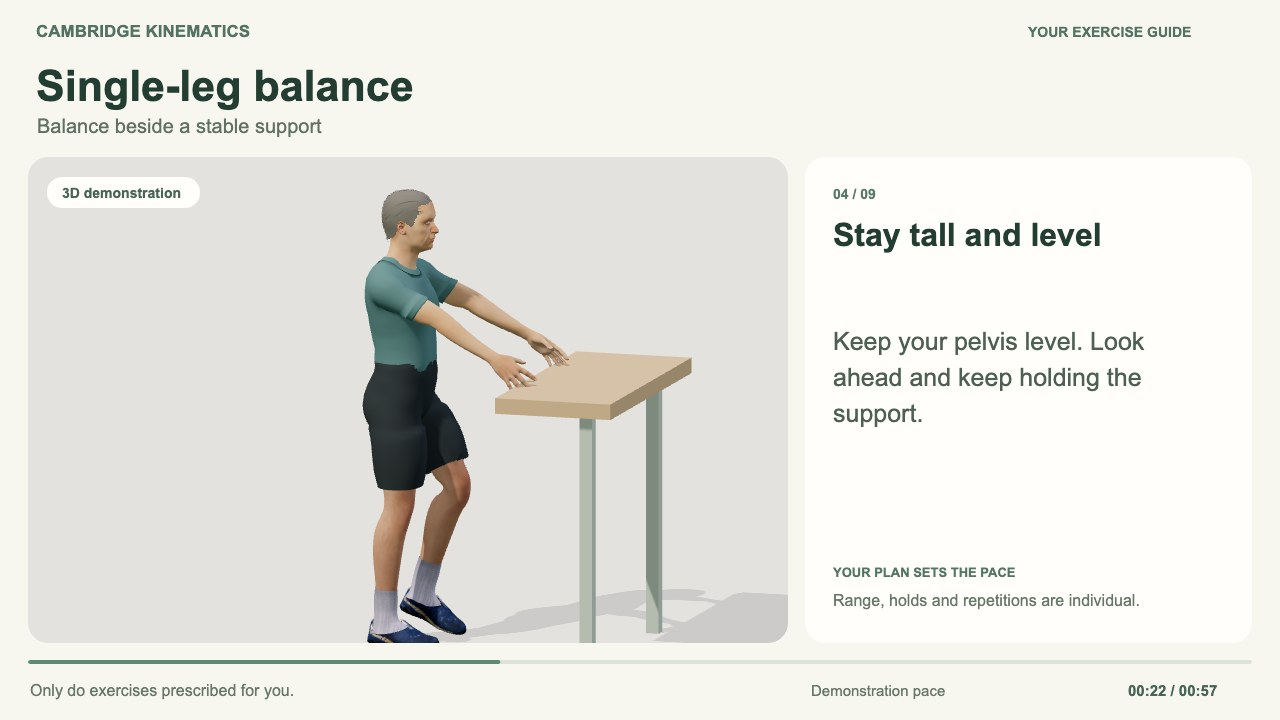
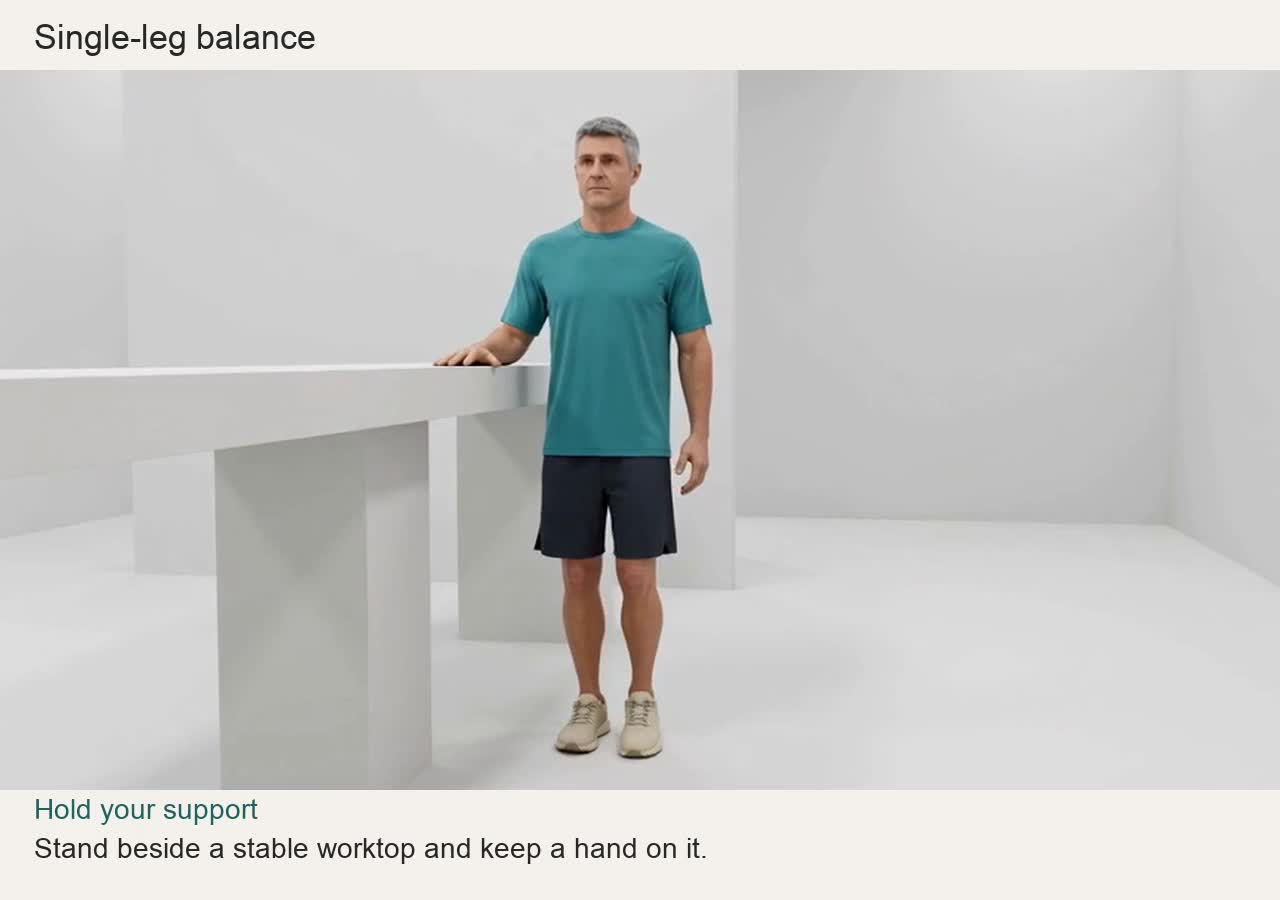
Replace old exercise videos and play demonstrations before exercises

diff --git a/exercise-guides/index.html b/exercise-guides/index.html
@@ -1,14 +1,14 @@
-<!doctype html><html lang="en"><head><meta charset="utf-8"><meta name="viewport" content="width=device-width,initial-scale=1"><meta name="description" content="Optional narrated animated exercise demonstrations for Knee Recovery."><title>Exercise guides | Cambridge Kinematics</title><link rel="stylesheet" href="library.css"></head><body>
+<!doctype html><html lang="en"><head><meta charset="utf-8"><meta name="viewport" content="width=device-width,initial-scale=1"><meta name="description" content="Narrated animated exercise demonstrations for Knee Recovery."><title>Exercise guides | Cambridge Kinematics</title><link rel="stylesheet" href="library.css"></head><body>
 <header><a href="../">Cambridge Kinematics</a><span>Knee Recovery</span></header><main>
-<div class="eyebrow">Exercise demonstrations · Review draft</div><h1>A clear view of<br>each movement.</h1><p class="intro">Nine short guides with a 3D character, generated narration and captions. Patients can watch a reminder or skip straight to their exercise.</p>
+<div class="eyebrow">Exercise demonstrations · Review draft</div><h1>A clear view of<br>each movement.</h1><p class="intro">Nine short guides with a 3D character, generated narration and captions. These demonstrations play before each exercise.</p>
 <div class="toolbar"><a class="button" href="magnific/">Magnific videos with Marin · Review drafts</a><a class="button primary" href="../">Open app preview</a><a class="button" href="README.md">Sources and review notes</a><a class="button" href="transcripts.md">Read all transcripts</a><a class="button" href="fitness-avatar/fitness-avatar-editable.blend" download>Editable Blender character</a></div>
-<div class="layout"><section class="player" aria-labelledby="currentTitle"><div class="player-head"><div><span id="currentStatus" class="eyebrow"></span><h2 id="currentTitle"></h2></div><span class="duration">57 seconds</span></div><video id="video" controls playsinline preload="metadata"><track kind="captions" srclang="en" label="English"></video><div class="player-actions"><button id="play" class="primary">Watch demonstration</button><button id="try">Try watch / skip</button><a id="download" class="button" download>Download MP4</a><a id="modelLink" class="button">Explore 3D model</a></div><p id="ready" role="status"></p><p class="note">The character demonstrates the movement. The patient’s prescribed plan determines range, hold time and repetitions. These drafts need clinical review before patient release.</p></section><nav id="exerciseList" aria-label="Choose an exercise"></nav></div>
+<div class="layout"><section class="player" aria-labelledby="currentTitle"><div class="player-head"><div><span id="currentStatus" class="eyebrow"></span><h2 id="currentTitle"></h2></div><span class="duration">57 seconds</span></div><video id="video" controls playsinline preload="metadata"><track kind="captions" srclang="en" label="English"></video><div class="player-actions"><button id="play" class="primary">Watch demonstration</button><button id="try">Preview exercise introduction</button><a id="download" class="button" download>Download MP4</a><a id="modelLink" class="button">Explore 3D model</a></div><p id="ready" role="status"></p><p class="note">The character demonstrates the movement. The patient’s prescribed plan determines range, hold time and repetitions. These drafts need clinical review before patient release.</p></section><nav id="exerciseList" aria-label="Choose an exercise"></nav></div>
 <section class="transcript" aria-labelledby="voicePreviewTitle"><h2 id="voicePreviewTitle">Selected narration: Marin</h2><p>All nine exercise videos now use Marin, with the selected soft, warm British delivery. The narration is AI-generated. The original voice audition is available below.</p><audio controls preload="metadata" aria-label="Approved Marin voice sample" src="source/openai-narration/approved-marin-preview.mp3"></audio></section>
 <section class="transcript"><h2>What the patient hears</h2><ol id="transcript"></ol></section>
-<footer>Adult character built and rigged in Blender. No patient recordings are included. <a href="README.md">Method and sources</a></footer></main><script type="module">
-import {showExerciseGuide} from './guide-player.js';
-const exs=await(await fetch('./exercises.json?v=marin-v2')).json(),$=id=>document.getElementById(id),v=$('video');let current;
-function choose(ex){v.pause();current=ex;document.querySelector('.duration').textContent=Math.round(ex.duration)+' seconds';v.src='videos/'+ex.id+'.mp4?v=marin-v2';v.poster='videos/'+ex.id+'.jpg';v.querySelector('track').src='videos/'+ex.id+'.vtt';v.load();$('currentTitle').textContent=ex.title;$('currentStatus').textContent=ex.active?'Current exercise':'Planned exercise';$('download').href=v.src;$('modelLink').href='model.html?exercise='+ex.id;$('ready').textContent='';$('play').textContent='Watch demonstration';$('transcript').replaceChildren(...ex.cues.map(c=>{const li=document.createElement('li'),time=document.createElement('span'),p=document.createElement('p');time.textContent=String(Math.floor(c.start/60)).padStart(2,'0')+':'+String(Math.floor(c.start%60)).padStart(2,'0');p.textContent=c.text;li.append(time,p);return li}));document.querySelectorAll('#exerciseList button').forEach(b=>{const active=b.dataset.id===ex.id;b.setAttribute('aria-pressed',String(active));});history.replaceState(null,'','#'+ex.id);}
+<footer>Magnific animated character with Marin narration. No patient recordings are included. <a href="README.md">Method and sources</a></footer></main><script type="module">
+import {showExerciseGuide} from './guide-player.js?v=magnific-1';
+const exs=await(await fetch('./exercises.json?v=magnific-1')).json(),$=id=>document.getElementById(id),v=$('video');let current;
+function choose(ex){v.pause();current=ex;document.querySelector('.duration').textContent=Math.round(ex.duration)+' seconds';v.src='magnific/'+ex.id+'.mp4?v=magnific-1';v.poster='videos/'+ex.id+'.jpg?v=magnific-1';v.querySelector('track').src='videos/'+ex.id+'.vtt';v.load();$('currentTitle').textContent=ex.title;$('currentStatus').textContent=ex.active?'Current exercise':'Planned exercise';$('download').href=v.src;$('modelLink').href='model.html?exercise='+ex.id;$('ready').textContent='';$('play').textContent='Watch demonstration';$('transcript').replaceChildren(...ex.cues.map(c=>{const li=document.createElement('li'),time=document.createElement('span'),p=document.createElement('p');time.textContent=String(Math.floor(c.start/60)).padStart(2,'0')+':'+String(Math.floor(c.start%60)).padStart(2,'0');p.textContent=c.text;li.append(time,p);return li}));document.querySelectorAll('#exerciseList button').forEach(b=>{const active=b.dataset.id===ex.id;b.setAttribute('aria-pressed',String(active));});history.replaceState(null,'','#'+ex.id);}
 $('exerciseList').replaceChildren(...exs.map((ex,i)=>{const b=document.createElement('button');b.dataset.id=ex.id;const num=document.createElement('span'),title=document.createElement('strong'),small=document.createElement('small');num.textContent=String(i+1).padStart(2,'0');title.textContent=ex.title;small.textContent=ex.active?'Current exercise':'Planned exercise';b.append(num,title,small);b.onclick=()=>choose(ex);return b}));
 $('play').onclick=()=>{v.play().catch(()=>{$('ready').textContent='Use the video play button to begin.'})};v.addEventListener('ended',()=>{$('play').textContent='Watch again'});$('try').onclick=async()=>{$('ready').textContent=await showExerciseGuide(current)?'The patient would now continue to camera setup and their exercise.':'Returned to the exercise list.';};
 choose(exs.find(e=>e.id===location.hash.slice(1))||exs.find(e=>e.id==='seated_extension'));

diff --git a/exercise-guides/guide-player.js b/exercise-guides/guide-player.js
@@ -9,13 +9,13 @@ function initialise(){
  .exercise-guide-dialog video{display:block;width:100%;aspect-ratio:16/9;object-fit:contain;background:#edf1eb;border-radius:12px}
  .exercise-guide-dialog .guide-actions{display:flex;gap:10px;margin-top:18px;flex-wrap:wrap}.exercise-guide-dialog button{font:inherit;cursor:pointer;min-height:48px;padding:12px 17px;border-radius:10px;border:1px solid #9cad9f;background:transparent;color:#294835;font-weight:600}.exercise-guide-dialog .guide-primary{background:#274d3b;color:white;border-color:#274d3b}.exercise-guide-dialog .guide-close{position:absolute;right:16px;top:12px;border:0;font-size:26px;min-height:44px;padding:6px 12px}.exercise-guide-dialog .guide-note{font-size:13px;margin:12px 0 0}.exercise-guide-dialog button:focus-visible,.exercise-guide-dialog video:focus-visible{outline:3px solid #b57231;outline-offset:3px}
  @media(max-width:480px){.exercise-guide-dialog{padding:19px 14px}.exercise-guide-dialog .guide-actions button{flex:1 1 100%}}`;
- document.head.append(style);dialog=document.createElement('dialog');dialog.className='exercise-guide-dialog';dialog.setAttribute('aria-labelledby','exerciseGuideTitle');dialog.setAttribute('aria-describedby','exerciseGuideDescription');dialog.innerHTML=`<button type="button" class="guide-close" aria-label="Back to exercises">×</button><div class="guide-kicker">Exercise guide · Optional</div><h2 id="exerciseGuideTitle"></h2><p id="exerciseGuideDescription">Watch a demonstration if you would like a reminder, or go straight to your exercise.</p><video controls playsinline preload="none" aria-label="Exercise demonstration"><track kind="captions" srclang="en" label="English"></video><p class="guide-error" hidden>The video could not load. You can still start the exercise and read the written instructions.</p><div class="guide-actions"><button type="button" class="guide-watch guide-primary">Watch how to do it</button><button type="button" class="guide-skip">Skip and start</button></div><p class="guide-note">Follow your own prescribed range, hold time and repetitions.</p>`;
+ document.head.append(style);dialog=document.createElement('dialog');dialog.className='exercise-guide-dialog';dialog.setAttribute('aria-labelledby','exerciseGuideTitle');dialog.setAttribute('aria-describedby','exerciseGuideDescription');dialog.innerHTML=`<button type="button" class="guide-close" aria-label="Back to exercises">×</button><div class="guide-kicker">Exercise demonstration</div><h2 id="exerciseGuideTitle"></h2><p id="exerciseGuideDescription">Watch the demonstration, then continue to your exercise.</p><video controls playsinline preload="none" aria-label="Exercise demonstration"><track kind="captions" srclang="en" label="English"></video><p class="guide-error" hidden>The video could not load. You can still start the exercise and read the written instructions.</p><div class="guide-actions"><button type="button" class="guide-watch guide-primary">Watch how to do it</button><button type="button" class="guide-skip">Start exercise</button></div><p class="guide-note">Follow your own prescribed range, hold time and repetitions.</p>`;
  document.body.append(dialog);
  const video=dialog.querySelector('video'),watch=dialog.querySelector('.guide-watch');
  watch.onclick=()=>{if(video.ended)video.currentTime=0;video.play().catch(()=>{dialog.querySelector('.guide-error').hidden=false});};
  video.addEventListener('play',()=>{watch.textContent='Restart video';watch.onclick=()=>{video.currentTime=0;video.play().catch(()=>{})};});
- video.addEventListener('ended',()=>{watch.textContent='Watch again';dialog.querySelector('.guide-skip').textContent='Start exercise';});
- video.addEventListener('error',()=>{dialog.querySelector('.guide-error').hidden=false});
+ video.addEventListener('ended',()=>{dialog.querySelector('.guide-skip').disabled=false;watch.textContent='Watch again';dialog.querySelector('.guide-skip').textContent='Start exercise';});
+ video.addEventListener('error',()=>{if(video.getAttribute('src')){dialog.querySelector('.guide-error').hidden=false;dialog.querySelector('.guide-skip').disabled=false;}});
  dialog.querySelector('.guide-skip').onclick=()=>finish?.(true);
  dialog.querySelector('.guide-close').onclick=()=>finish?.(false);
  dialog.addEventListener('cancel',e=>{e.preventDefault();e.stopPropagation();finish?.(false)});
@@ -23,8 +23,10 @@ function initialise(){
 }
 export function showExerciseGuide(exercise){
  initialise();if(finish)finish(false);const video=dialog.querySelector('video');previousFocus=document.activeElement;
- dialog.querySelector('h2').textContent=exercise.title;dialog.querySelector('.guide-watch').textContent='Watch how to do it';dialog.querySelector('.guide-skip').textContent='Skip and start';dialog.querySelector('.guide-error').hidden=true;
- video.poster=new URL('videos/'+exercise.id+'.jpg',root);video.src=new URL('videos/'+exercise.id+'.mp4?v=marin-v2',root);video.querySelector('track').src=new URL('videos/'+exercise.id+'.vtt',root);video.load();
+ dialog.querySelector('h2').textContent=exercise.title;dialog.querySelector('.guide-watch').textContent='Watch how to do it';dialog.querySelector('.guide-skip').textContent='Start exercise';dialog.querySelector('.guide-error').hidden=true;dialog.querySelector('.guide-skip').disabled=true;
+ video.poster=new URL('videos/'+exercise.id+'.jpg?v=magnific-1',root);video.src=new URL('magnific/'+exercise.id+'.mp4?v=magnific-1',root);video.querySelector('track').src=new URL('videos/'+exercise.id+'.vtt',root);video.load();
+ dialog.querySelector('.guide-note').textContent=exercise.id==='standing_flexion'?'Review draft: the video shows a support frame; narration refers to a worktop. Follow your prescribed range, hold time and repetitions.':'Follow your own prescribed range, hold time and repetitions.';
  dialog.showModal();dialog.querySelector('.guide-watch').focus();
+ video.play().catch(()=>{dialog.querySelector('.guide-watch').textContent='Play demonstration';});
  return new Promise(resolve=>{finish=proceed=>{video.pause();video.removeAttribute('src');video.querySelector('track').removeAttribute('src');video.load();finish=null;dialog.close();previousFocus?.focus();resolve(proceed);};});
 }

diff --git a/index.html b/index.html
@@ -680,6 +680,7 @@ body:not(.progress-view) #home>.camera-options{margin:0 0 20px}.settings-chevron
 <dialog id="patientReview" class="patient-review" aria-labelledby="patientReviewTitle"><div class="patient-review-header"><span id="patientReviewTitle">Your exercise summary</span><button type="button" id="closePatientReview">Close</button></div><div id="patientReviewContent"></div></dialog>
 
 <script type="module">
+import {showExerciseGuide} from './exercise-guides/guide-player.js?v=magnific-1';
 import {LivePositionCounter,readPositionFrame} from './tools/position-recogniser/live.mjs';
 let positionModel=null,positionCounter=null;
 const positionCanvas=document.createElement('canvas');positionCanvas.width=positionCanvas.height=128;
@@ -844,10 +845,8 @@ for(const id of ["patientName","patientDob"]){$(id).addEventListener("change",()
 let phase = 1;   // the week section the open exercise came from; written into the record
 let renderedDay = todayKey();
 function currentPhase() { const d = daysPostOp($("opdate").value, new Date()); return d === null || d < 0 ? null : phaseForDay(d); }
-function exerciseDemoLink(ex) {
-  const path=ex.id === "seated_extension" ? "fitness-avatar/v2/seated_extension.mp4" : `videos/${ex.id}.mp4`;
-  return `<a class="exercise-demo" href="./exercise-guides/${path}" target="_blank" rel="noopener" aria-label="Watch example: ${esc(ex.title)} (opens in a new tab)">Watch example ↗</a>`;
-}
+function exerciseDemoLink(ex) { return ""; }
+
 function renderWeeks() {
   const now = currentPhase();
   $("weeknav").innerHTML = Object.keys(LIB).map(p => `<a href="#week${p}" class="${+p === now ? "now" : ""}">${esc(PHASES[p])}${+p === now ? " · now" : ""}</a>`).join("");
@@ -997,6 +996,7 @@ $("voiceTest").onclick = async () => {
 async function openExercise(ex) {
   if (!isExerciseAvailable(ex)) return;
   if (!["left", "right"].includes($("side").value)) { location.href="./#side"; return; }
+  if (!await showExerciseGuide(ex)) return;
   await preparePositionModel(ex.id);
   current = ex; prescribedDone = false; hold = null; boxMode = false; dragging = null; resetHand(); handArmed = false; handReleasedAt = null; handReleaseSample = null; statusBefore = null; lastHandAt = -Infinity; lastHandResult = null;
   $("voiceStatus").textContent = "";
